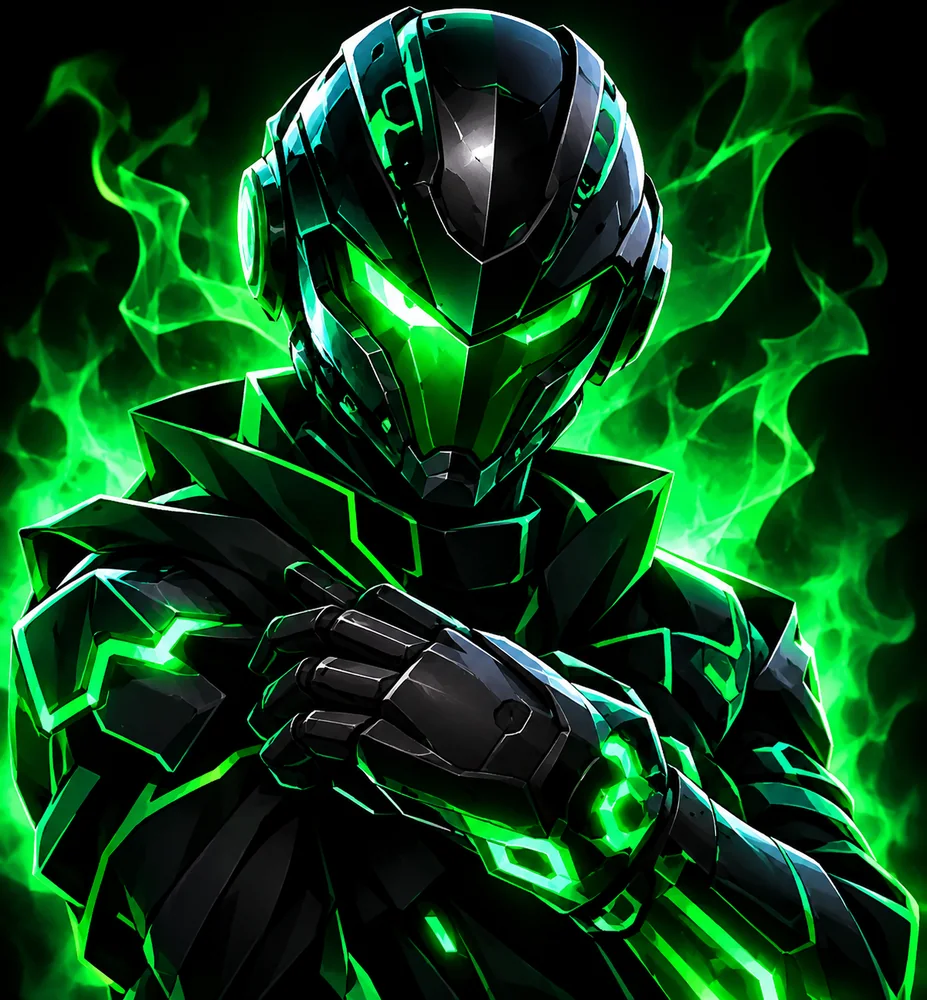
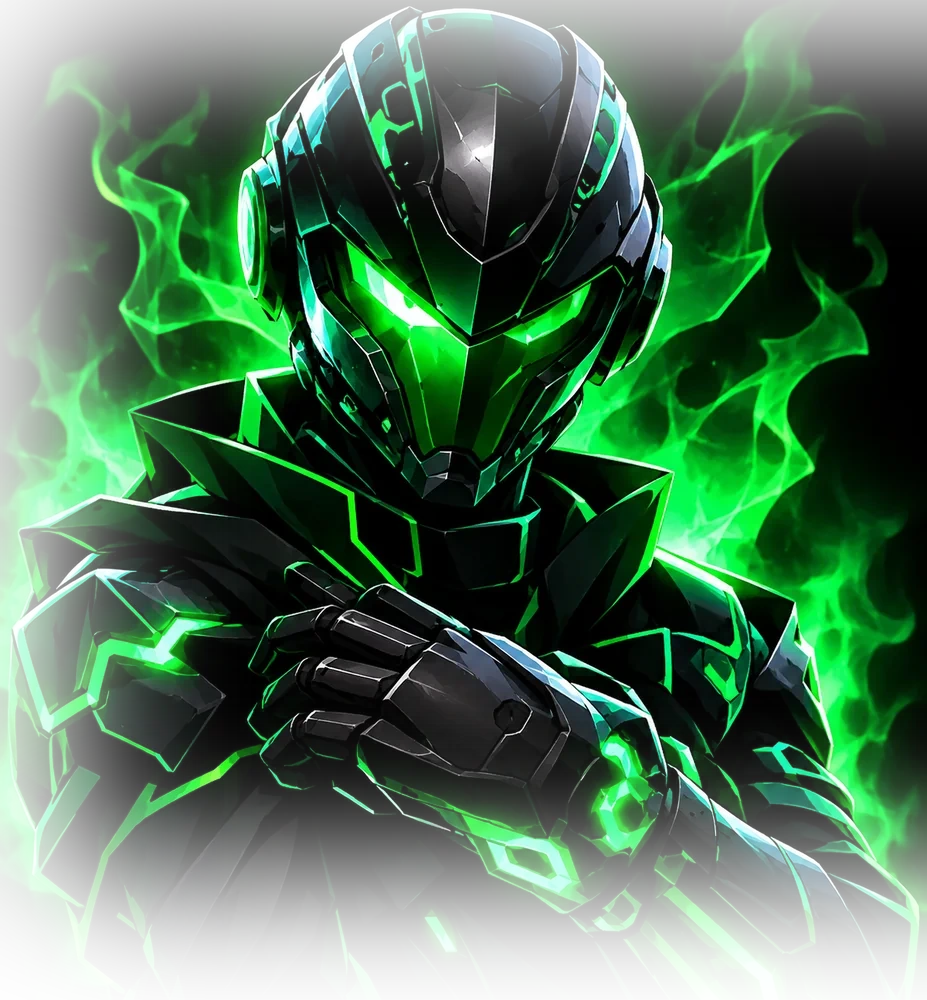
Nexora v7: arte difuminado

diff --git a/public/css/nexora.css b/public/css/nexora.css
@@ -324,3 +324,5 @@ a.order:hover{border-color:var(--acc)}
 .auth-art{-webkit-mask-image:linear-gradient(90deg,transparent 0,#000 30%),linear-gradient(180deg,transparent 0,#000 14%,#000 66%,transparent 100%);mask-image:linear-gradient(90deg,transparent 0,#000 30%),linear-gradient(180deg,transparent 0,#000 14%,#000 66%,transparent 100%);-webkit-mask-composite:source-in;mask-composite:intersect}
 @media(min-width:560px){.auth-art{-webkit-mask-image:linear-gradient(90deg,transparent 0,#000 34%),linear-gradient(180deg,transparent 0,#000 8%);mask-image:linear-gradient(90deg,transparent 0,#000 34%),linear-gradient(180deg,transparent 0,#000 8%)}}
 .promo .art{-webkit-mask-image:linear-gradient(90deg,transparent,#000 38%),linear-gradient(180deg,transparent,#000 10%);mask-image:linear-gradient(90deg,transparent,#000 38%),linear-gradient(180deg,transparent,#000 10%);-webkit-mask-composite:source-in;mask-composite:intersect}
+
+.auth-art{-webkit-mask-image:none!important;mask-image:none!important}
